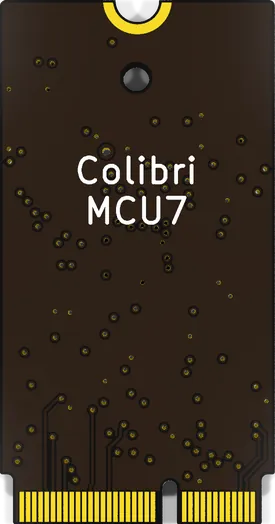
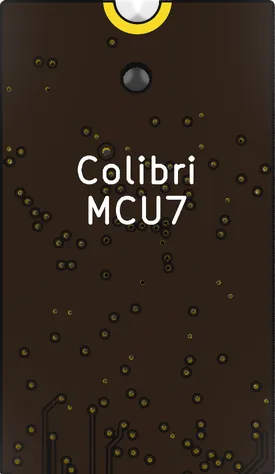
Module pictures without the M.2 edge; Fallback is now Relay; E15 done
Each module's picture leaves out its M.2 edge connector, which is inside
the carrier's socket: the bottom 9.5 % of the board, from its shoulders.
The renders' crops, the copies, the slots' places and the channels'
positions follow. Colibri Fallback is renamed Colibri Relay (type
colibri_relay), as the vendor did. E15 is done by the vendor's renders.

diff --git a/emulators/colibri/tests/catalog.test.ts b/emulators/colibri/tests/catalog.test.ts
@@ -26,7 +26,7 @@ describe('the built-in catalog', () => {
             'MCU module types 3']);
         expect([...catalog.modules.keys()].sort()).toEqual(['carrier', 'colibri_aic', 'colibri_aiv', 'colibri_aqv',
             'colibri_dii', 'colibri_dio1', 'colibri_diu', 'colibri_dp1', 'colibri_dp2', 'colibri_dp3',
-            'colibri_fallback', 'colibri_fet', 'colibri_pid1', 'colibri_pt1000', 'colibri_rs485i', 'colibri_rs485u',
+            'colibri_fet', 'colibri_pid1', 'colibri_pt1000', 'colibri_relay', 'colibri_rs485i', 'colibri_rs485u',
             'colibri_ssr', 'colibri_triac1']);
         expect([...catalog.comm.keys()].sort())
             .toEqual(['colibri_ethernet', 'colibri_lorawan', 'colibri_rs485', 'colibri_wifi']);
@@ -71,7 +71,7 @@ describe('the built-in catalog', () => {
         expect(channels('colibri_fet')).toEqual(['dq output bool 4']);
         expect(channels('colibri_ssr')).toEqual(['dq output bool 2']);
         expect(channels('colibri_triac1')).toEqual(['dq output bool 4']);
-        expect(channels('colibri_fallback')).toEqual(['dq output bool 1']);
+        expect(channels('colibri_relay')).toEqual(['dq output bool 1']);
         expect(channels('colibri_pid1')).toEqual(['ai input number 1 °C', 'output input number 1 V',
             'saturated input bool 1', 'setpoint output number 1 °C', 'kp output number 1', 'ki output number 1 1/s',
             'kd output number 1 s', 'max_dgain output number 1', 'min output number 1 V', 'max output number 1 V',

diff --git a/emulators/colibri/specifications/00-README.md b/emulators/colibri/specifications/00-README.md
@@ -53,7 +53,7 @@ Collected 2026-10-23 from the CurrentMakers catalogue (https://currentmakers.com
 | `colibri_fet` | Colibri FET | 4 × N-channel MOSFET sink, 1 A, 60 V, PCA9536, I2C |
 | `colibri_ssr` | Colibri SSR | 2 × solid-state relay, 80 mA, 60 V DC, PCA9536 |
 | `colibri_triac1` | Colibri TRIAC1 | 4 × triac, 500 mA AC, zero-cross detection, PCA9536 |
-| `colibri_fallback` | Colibri Fallback | 1 × SPDT relay (wiki only) |
+| `colibri_relay` | Colibri Relay | 1 × SPDT relay (formerly Colibri Fallback, renamed by the vendor; not for sale yet) |
 | `colibri_pid1` | Colibri PID1 | 1 × Pt1000 in (MAX31865), 1 × 0–10 V out (MCP4725 12-bit), STM32F030 running a full PID regulator |
 | `colibri_rs485i`, `colibri_rs485u` | Colibri RS485I, Colibri RS485U | RS-485 — not defined yet; outside the scope of the emulator and of hakkas (*decided*, 2026-10-23) |
 
@@ -82,7 +82,7 @@ The catalogue also lists MCU modules (MCU1 STM32WLE5, MCU2 STM32H562RG, MCU3 STM
 | FET | `dq` | out | bool | 4 | | | | false | | lamp |
 | SSR | `dq` | out | bool | 2 | | | | false | | lamp |
 | TRIAC1 | `dq` | out | bool | 4 | | | | false | | lamp |
-| Fallback | `dq` | out | bool | 1 | | | | false | | lamp |
+| Relay | `dq` | out | bool | 1 | | | | false | | lamp |
 | PID1 | `ai` | in | number | 1 | °C | −50–150 | 0.01 | 21 | 0.05 | slider |
 | | `output` | in | number | 1 | V | 0–10 | 0.001 | 0 | 0 | slider |
 | | `saturated` | in | bool | 1 | | | | false | | toggle |
@@ -240,9 +240,9 @@ The answer is `ok` with `{"name", "warnings": […]}`, or an error: `Cannot conn
  "picture": "board.svg",
  "render": {"url": "https://currentmakers.com/data/products/colibri/renders/colibri_8-rev_B_top_render.png",
             "copy": "picture.webp", "crop": {"x": 0.2253, "y": 0.3036, "w": 0.5494, "h": 0.4051}},
- "places": {"slots": [{"slot": 1, "x": 0.2639, "y": 0.3249, "w": 0.0879, "h": 0.4083}, …],
-            "comm": [{"slot": 1, "x": 0.0593, "y": 0.3249, "w": 0.0879, "h": 0.4083}],
-            "mcu": {"x": 0.1711, "y": 0.3249, "w": 0.0879, "h": 0.4083}}}
+ "places": {"slots": [{"slot": 1, "x": 0.2639, "y": 0.3249, "w": 0.0879, "h": 0.3695}, …],
+            "comm": [{"slot": 1, "x": 0.0593, "y": 0.3249, "w": 0.0879, "h": 0.3695}],
+            "mcu": {"x": 0.1711, "y": 0.3249, "w": 0.0879, "h": 0.3695}}}
 ```
 
 - **Type and name**: machine-readable and human-readable (§2.1).
@@ -251,7 +251,7 @@ The answer is `ok` with `{"name", "warnings": […]}`, or an error: `Cannot conn
 - **Power specification**: supply voltage range, AC and/or DC, supply current (for the Colibri 8: 7–30 V, AC or DC, 2 A recommended) — described, not emulated.
 - **Communication slots**: the module types each accepts — the Colibri 8 has one slot, taking Ethernet, WiFi, RS-485 (Modbus/RTU) or LoRaWAN. The environment chooses one per slot with its **parameters, which differ per type** and are **view only** (*decided*, 2026-10-24): Ethernet and WiFi DHCP or a static address (with WiFi's SSID), RS-485 bitrate and parity, LoRaWAN (OTAA only) App EUI, Dev EUI and whether an App Key is set (never the key) — the sets of `04-drivers.md` §1. Communication modules are not emulated (§1); they are described to hakkas and copied from a device, and the emulator's UI lets the user enter them for an environment made from scratch. No secret (a WiFi passphrase) is kept in an environment or described.
 
-- **Pictures for hakkas' frontend** (*decided* with the user 2026-10-26, hakkas plan task 75): `render`, `{"url"?, "copy"?, "rotation"?, "crop"?}` — the vendor's file (an https link), the part showing the board (`crop`, fractions of the file, inside it) and the clockwise quarter turns after it (`rotation`: 0, 90, 180 or 270), and the board's own copy (`copy`, hakkas plan task 77: a picture file beside the descriptor, already cropped and turned, published with `--pictures`, §3.1; a copy that is not there is left out with a warning, with the render when it has no url) — at least one of url and copy — described as the carrier's `picture` (`04-drivers.md` §1 "Pictures"); `mcu.json` and `comm.json` may have one too. `places`: where the slots are on that picture as shown — `slots` (I/O slots 0 to n − 1) and `comm` (communication slots the carrier has), each `{"slot", "x", "y", "w", "h"}` at most once, and `mcu` (only for a carrier that takes MCU modules) — rectangles in fractions (0 to 1) of the picture's width and height, inside the picture; described as given, the MCU slot's only with an MCU module in it. They are not the emulator's own `picture` (the board for its own UI, §7.4). The built-in descriptors' renders are CurrentMakers' published top renders (`https://currentmakers.com/data/products/products.json`, the Colibri family; decided with the user 2026-10-26): the carrier's cropped to the board (plan task 78: uncropped, its margins took half the window), the I/O modules' cropped to the board (already upright), the MCU modules' cropped and turned 90° clockwise (connector down); a type without a published render (RS485I, RS485U, the communication modules, DP2, DP3, Fallback) has no url. Every type with a render — published, or one of the user's local renders (RS485I, RS485U, Ethernet, LoRaWAN) — has a copy `picture.webp`: half size, WebP quality 80, cropped and turned (11–31 KB). The Colibri 8's places were measured on its render.
+- **Pictures for hakkas' frontend** (*decided* with the user 2026-10-26, hakkas plan task 75): `render`, `{"url"?, "copy"?, "rotation"?, "crop"?}` — the vendor's file (an https link), the part showing the board (`crop`, fractions of the file, inside it) and the clockwise quarter turns after it (`rotation`: 0, 90, 180 or 270), and the board's own copy (`copy`, hakkas plan task 77: a picture file beside the descriptor, already cropped and turned, published with `--pictures`, §3.1; a copy that is not there is left out with a warning, with the render when it has no url) — at least one of url and copy — described as the carrier's `picture` (`04-drivers.md` §1 "Pictures"); `mcu.json` and `comm.json` may have one too. `places`: where the slots are on that picture as shown — `slots` (I/O slots 0 to n − 1) and `comm` (communication slots the carrier has), each `{"slot", "x", "y", "w", "h"}` at most once, and `mcu` (only for a carrier that takes MCU modules) — rectangles in fractions (0 to 1) of the picture's width and height, inside the picture; described as given, the MCU slot's only with an MCU module in it. They are not the emulator's own `picture` (the board for its own UI, §7.4). The built-in descriptors' renders are CurrentMakers' published top renders (`https://currentmakers.com/data/products/products.json`, the Colibri family; decided with the user 2026-10-26): the carrier's cropped to the board (plan task 78: uncropped, its margins took half the window), the I/O modules' cropped to the board (already upright), the MCU modules' cropped and turned 90° clockwise (connector down) — every module without its M.2 edge connector, which is inside the carrier's socket (the bottom 9.5 % of the board, from its shoulders; decided with the user 2026-10-26), its slot's place as much shorter; a type without a published render (RS485I, RS485U, the communication modules, DP2, DP3, Relay — the last three not for sale yet) has no url. Every type with a render — published, or one of the user's local renders (RS485I, RS485U, Ethernet, LoRaWAN) — has a copy `picture.webp`: half size, WebP quality 80, cropped and turned (11–31 KB). The Colibri 8's places were measured on its render.
 - **MCU slot** (*decided* with the user 2026-10-26, hakkas plan task 73): the MCU module types it takes (`mcu.types`). The MCU module is not emulated (§1), only named: the one given by `--mcu` (§3.1) is described to hakkas as the carrier's `mcu` (`04-drivers.md` §1) when the carrier takes it. An **MCU module type** is a directory with `mcu.json`, its metadata only: `{"type": "colibri_mcu6", "name": "Colibri MCU6", "vendor": "CurrentMakers", "description": "STM32H735RG"}`; the built-in catalog has `colibri_mcu2` (STM32H562RG), `colibri_mcu6` (STM32H735RG) and `colibri_mcu7` (RP2350). A type a carrier names that the catalog lacks is left out of its list, with a warning.
 
 A **communication module type** is data too, a directory with `comm.json` (*decided*, 2026-10-25), so new types are added by adding a file:
@@ -303,8 +303,8 @@ modules/colibri_pt1000/
     "control": "toggle", "description": "Sensor open or shorted"}
  ],
  "render": {"url": "https://currentmakers.com/data/products/colibri/renders/colibri_pt1000_top_render.png",
-            "crop": {"x": 0.2415, "y": 0.2243, "w": 0.5169, "h": 0.5515}},
- "positions": [{"channel": "ai", "index": 1, "x": 0.31, "y": 0.76}, …],
+            "crop": {"x": 0.2415, "y": 0.2243, "w": 0.5169, "h": 0.4991}},
+ "positions": [{"channel": "ai", "index": 1, "x": 0.31, "y": 0.8398}, …],
  "faceplate": "faceplate.svg",
  "ui": {"bindings": […], "controls": […]}}
 ```

diff --git a/specifications/04-drivers.md b/specifications/04-drivers.md
@@ -83,7 +83,7 @@ User-facing naming from the plant's point of view (e.g. calling a sensor an "inp
 {"name": "colibri", "carrier": {"type": "colibri_8", "name": "Colibri 8", "vendor": "CurrentMakers", "serial": "…",
    "picture": {"url": "https://currentmakers.com/data/products/colibri/renders/colibri_8-rev_B_top_render.png",
                "copy": "colibri_8.webp", "crop": {"x": 0.2253, "y": 0.3036, "w": 0.5494, "h": 0.4051}},
-   "places": {"slots": [{"slot": 1, "x": 0.2639, "y": 0.3249, "w": 0.0879, "h": 0.4083}, …],
+   "places": {"slots": [{"slot": 1, "x": 0.2639, "y": 0.3249, "w": 0.0879, "h": 0.3695}, …],
               "comm": [{"slot": 1, "x": 0.0593, …}], "mcu": {"x": 0.1711, …}},
    "slots": 7, "builtin": [{"slot": 0}],
    "power": {"voltage": {"min": 7, "max": 30}, "ac": true, "dc": true, "current": 2.0},
@@ -94,16 +94,16 @@ User-facing naming from the plant's point of view (e.g. calling a sensor an "inp
  "modules": [{"slot": 0, "type": "carrier", "builtin": true, "ports": []},
              {"slot": 1, "type": "colibri_pt1000", "name": "Colibri Pt1000", "serial": "…",
               "picture": {"url": "https://currentmakers.com/data/products/colibri/renders/colibri_pt1000_top_render.png",
-                          "crop": {"x": 0.2415, "y": 0.2243, "w": 0.5169, "h": 0.5515}},
+                          "crop": {"x": 0.2415, "y": 0.2243, "w": 0.5169, "h": 0.4991}},
               "ports": ["slot1-ai", "slot1-fault"],
-              "positions": [{"port": "slot1-ai", "index": 1, "x": 0.31, "y": 0.76}, …]}, …], …}
+              "positions": [{"port": "slot1-ai", "index": 1, "x": 0.31, "y": 0.8398}, …]}, …], …}
 ```
 Like all metadata it is for the user interface only, and it is what the Colibri emulator copies from a device (`emulators/colibri/specifications/00-README.md` §5.3).
 
 **Human-readable names** (decided with the user 2026-10-25; implemented in plan task 68, 2026-10-25): the carrier, each module and each communication slot have, besides their machine-readable `type`, an optional human-readable **`name`** (e.g. `colibri_pt1000`, "Colibri Pt1000"). On Colibri both are in the module's EEPROM from the factory and never change; the Colibri emulator takes them from its module descriptors (`emulators/colibri/specifications/00-README.md` §7.1). A name is a string of at most 1024 bytes, like the other metadata, and not otherwise validated; the frontend shows it, or the type where there is none (06 §4.14). It is static, so the identical-description check of §0.1 compares it, for a communication slot too (beside its number and type). On the wire it is an addition to `environment:describe` (`02-wire-protocol.md` §3.7), a group that is not part of the upstream FBP protocol.
 
 **Pictures** (decided with the user 2026-10-26; implemented in plan task 75): so that the frontend can draw the device — the carrier with its modules in their slots and every channel's state on them, the same for a real device and the emulator (plan Phase 11) — the description may carry:
-- a **`picture`** for the carrier, each module, each communication slot's module and the MCU module: `{"url"?, "copy"?, "rotation"?, "crop"?}` (changed with the user 2026-10-26 from a plain link, so that the vendor's published file is used as it is). `url` is the vendor's file, a string of at most 1024 bytes, hosted by the vendor (or by CurrentMakers for a vendor who cannot meet the requirement below); the frontend loads it only if it is an `https://` link (decided: no http). `crop` `{"x", "y", "w", "h"}` is the part of the file that shows the board, in fractions of the file's width and height (none: all of it); `rotation` turns that part **clockwise** by 0, 90, 180 or 270 degrees (none: 0), so that it shows the board in the carrier's orientation (an I/O or MCU module's connector down). Cropped and turned, it is the picture **as shown**, which positions and places refer to. **`copy`** (decided with the user 2026-10-26, plan task 77) is the device's own copy, for networks without internet: a file name, served by hakkas at `/environment/pictures/<copy>` from `environment.pictures` (`05-app-lifecycle-persistence.md` §1.1, §3), a picture **already cropped and turned** (`rotation` and `crop` are the url's), WebP at about half size (15–30 KB, within the 64 KB free in a module's EEPROM). A picture has a url, a copy or both; the frontend takes its cache, then the url, then the copy when the url gives no image (plan task 78, `06-frontend.md` §4.15). Only the url's picture is cached, under its url: a copy is on the local network, and its name need not change with the picture. On Colibri the firmware copies each module's picture from its EEPROM into that directory at boot. CurrentMakers' renders are listed in `https://currentmakers.com/data/products/products.json` (per family, each model's file has its `renders`; the top view is `*_top_render.png`): the I/O modules' are upright already, the MCU modules' need a quarter turn clockwise.
+- a **`picture`** for the carrier, each module, each communication slot's module and the MCU module: `{"url"?, "copy"?, "rotation"?, "crop"?}` (changed with the user 2026-10-26 from a plain link, so that the vendor's published file is used as it is). `url` is the vendor's file, a string of at most 1024 bytes, hosted by the vendor (or by CurrentMakers for a vendor who cannot meet the requirement below); the frontend loads it only if it is an `https://` link (decided: no http). `crop` `{"x", "y", "w", "h"}` is the part of the file that shows the board, in fractions of the file's width and height (none: all of it); `rotation` turns that part **clockwise** by 0, 90, 180 or 270 degrees (none: 0), so that it shows the board in the carrier's orientation (an I/O or MCU module's connector down), without the part that is hidden in the carrier's socket (a module's M.2 edge connector; decided with the user 2026-10-26). Cropped and turned, it is the picture **as shown**, which positions and places refer to. **`copy`** (decided with the user 2026-10-26, plan task 77) is the device's own copy, for networks without internet: a file name, served by hakkas at `/environment/pictures/<copy>` from `environment.pictures` (`05-app-lifecycle-persistence.md` §1.1, §3), a picture **already cropped and turned** (`rotation` and `crop` are the url's), WebP at about half size (15–30 KB, within the 64 KB free in a module's EEPROM). A picture has a url, a copy or both; the frontend takes its cache, then the url, then the copy when the url gives no image (plan task 78, `06-frontend.md` §4.15). Only the url's picture is cached, under its url: a copy is on the local network, and its name need not change with the picture. On Colibri the firmware copies each module's picture from its EEPROM into that directory at boot. CurrentMakers' renders are listed in `https://currentmakers.com/data/products/products.json` (per family, each model's file has its `renders`; the top view is `*_top_render.png`): the I/O modules' are upright already, the MCU modules' need a quarter turn clockwise.
 - a module's **`positions`**: where its channels are on its picture, each `{"port", "index"?, "x", "y"}` — a port of the description, the channel of an addressable port (`index`, absent for a port that is not addressable), and the point, in **fractions (0 to 1) of the picture's width and height as shown** from its top left corner, so the positions fit any size the picture is served in. A built-in module has no picture of its own: its positions are fractions of the carrier's picture. A channel without a position is not drawn on the picture.
 - the carrier's **`places`**: where its slots are on its picture as shown — `"slots"` (I/O slots) and `"comm"` (communication slots), each `{"slot", "x", "y", "w", "h"}`, and `"mcu"`, `{"x", "y", "w", "h"}` — a rectangle in fractions of the carrier's picture, into which the frontend scales the module's picture as shown.
 

diff --git a/emulators/colibri/docs/plan.md b/emulators/colibri/docs/plan.md
@@ -118,7 +118,7 @@ Follow-ups, decided the same day:
   built-in directory (`data/`) and `--plugins` directories (`modules/`, `carriers/`, `comm/`,
   a later definition replacing an earlier one), with clear errors per file; the built-in
   plugins for every catalogue module (§2.1: AIV, AIC, AQV, Pt1000, DP1–DP3, DII, DIU, DIO1,
-  FET, SSR, TRIAC1, Fallback, PID1, RS485I/U without channels, slot 0's `carrier` without
+  FET, SSR, TRIAC1, Fallback (now Relay), PID1, RS485I/U without channels, slot 0's `carrier` without
   channels), the four communication module types and the `colibri_8` carrier (decision 4).
   *Done*: `src/check.ts` (reading JSON with a path per problem, every problem reported in one
   pass), `src/sources.ts` (the source forms of control protocol §5, and which a row accepts),
@@ -310,7 +310,8 @@ Follow-ups, decided the same day:
   (2026-10-26): the descriptors carry the renders, copies, positions and places, and hakkas'
   device window shows the picture with every channel's value. Decided with the user 2026-10-26:
   the emulator's UI shows the picture too, with its field-side controls on it.
-- [ ] **E15. Artwork** (decision 5): the Colibri 8 board and the modules' faceplates as SVGs.
+- [x] **E15. Artwork** (decision 5; done 2026-10-26 by the vendor's renders, not drawn SVGs,
+  decided with the user): the Colibri 8 board and the modules' faceplates as SVGs.
   Changed 2026-10-26: the vendor's renders (PNG, in the descriptors' directories) are the
   pictures, converted to WebP; I/O modules turned 90° clockwise to match the carrier.
   Hakkas task 75 (2026-10-26) put `render`, `positions` and `places` in the descriptors. The
@@ -318,10 +319,14 @@ Follow-ups, decided the same day:
   published with a crop and rotation: I/O modules upright already (board at 257–807 × 427–1477
   of 1064×1904), MCU modules turned 90° clockwise (board at 427–1476 × 257–807 of 1904×1064),
   the carrier uncropped. Positions and places refer to the picture as shown. Types without a
-  published render have no url (RS485I/U, the communication modules, DP2, DP3, Fallback).
+  published render have no url (RS485I/U, the communication modules, DP2, DP3, Relay).
   Hakkas task 77 added a `copy` per render, `picture.webp` (half size, cropped and turned, made
   from the published renders and, for RS485I/U, Ethernet and LoRaWAN, from the user's local
-  renders), published with `--pictures`. The render PNGs themselves are not needed.
+  renders), published with `--pictures`. The render PNGs themselves are not needed. Each
+  module's picture leaves out its M.2 edge connector (the bottom 9.5 %, from the board's
+  shoulders), hidden in the carrier's socket; the places are as much shorter and the positions
+  measured again (decided with the user 2026-10-26: the positions are right as they are). DP2,
+  DP3 and Relay (formerly Fallback, renamed by the vendor) get pictures when they are for sale.
 
 ## Phase 4 — Copying an environment from a device
 
